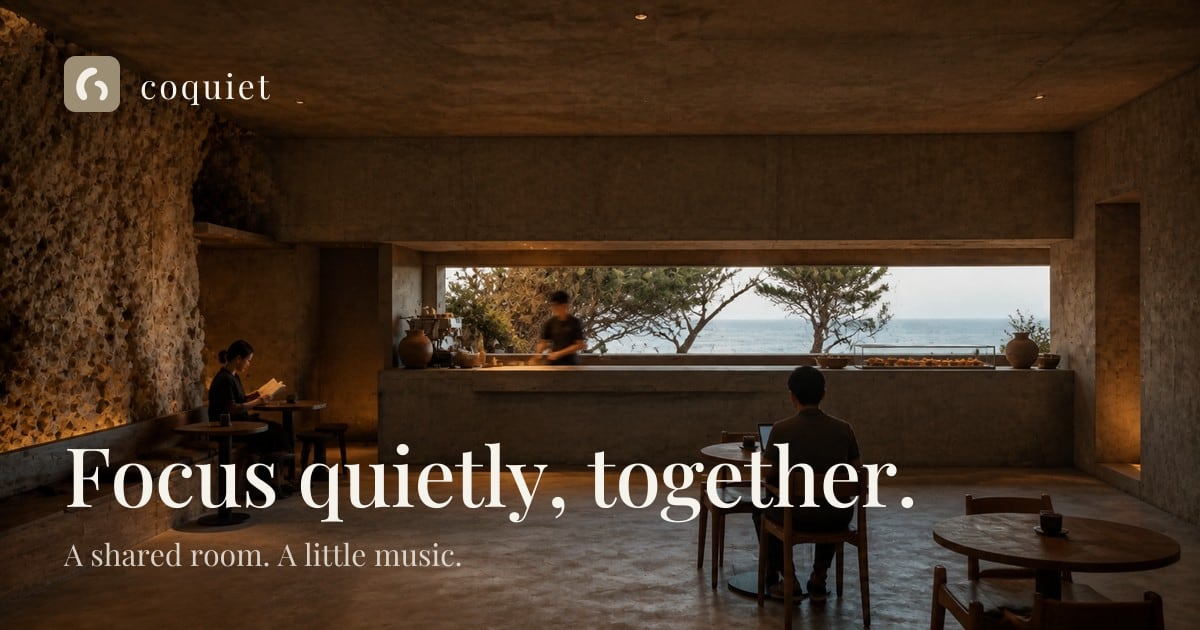
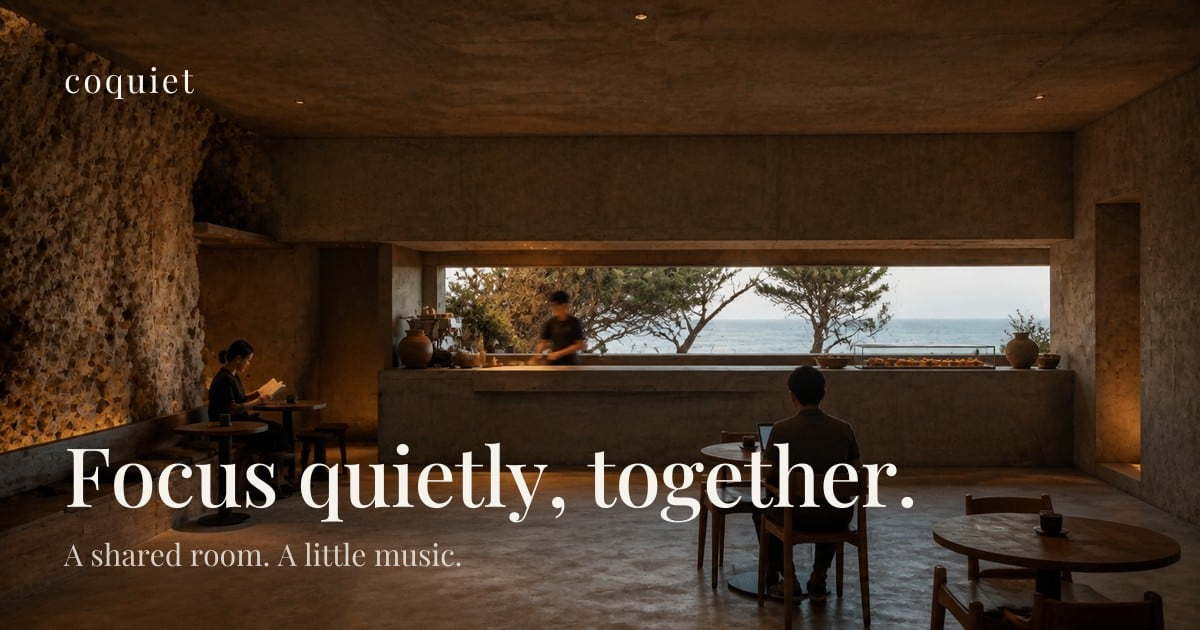
Keep the share card typographic
The mark belongs on the icons, not here. Like the in-app wordmark, the card
stays type over a photograph.

Changed region(s): [[0.0308, 0.0905, 0.2467, 0.181]]

diff --git a/CLAUDE.md b/CLAUDE.md
@@ -29,9 +29,11 @@ Full product detail lives in `SPEC.md`. The build order lives in `PLAN.md`. Read
 
 `assets/logo.png` and `assets/favicon.ico` are the mark as drawn — the only
 hand-made icons in the repo. `npm run assets:icons` cuts every other size from
-them (tab, Apple touch, the three PWA icons), and `npm run assets:og` puts the
-mark on the share card. Change the mark in `assets/`, re-run both, never edit a
-generated icon by hand.
+them (tab, Apple touch, the three PWA icons). Change the mark in `assets/`,
+re-run that, never edit a generated icon by hand.
+
+The share card is the one place the mark does *not* go: like the in-app
+`Wordmark`, it stays typography over a photograph.
 
 ## Adding a background
 
